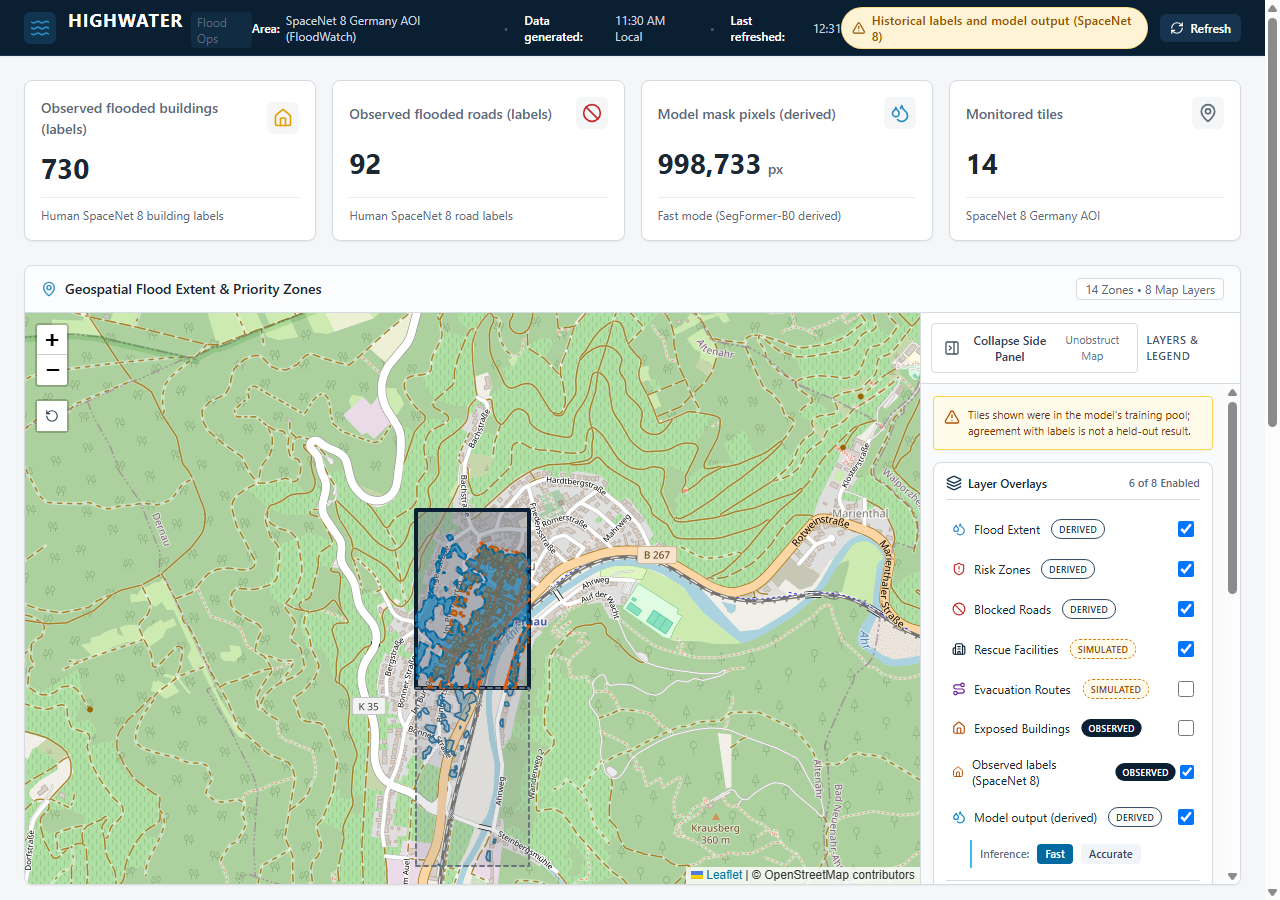
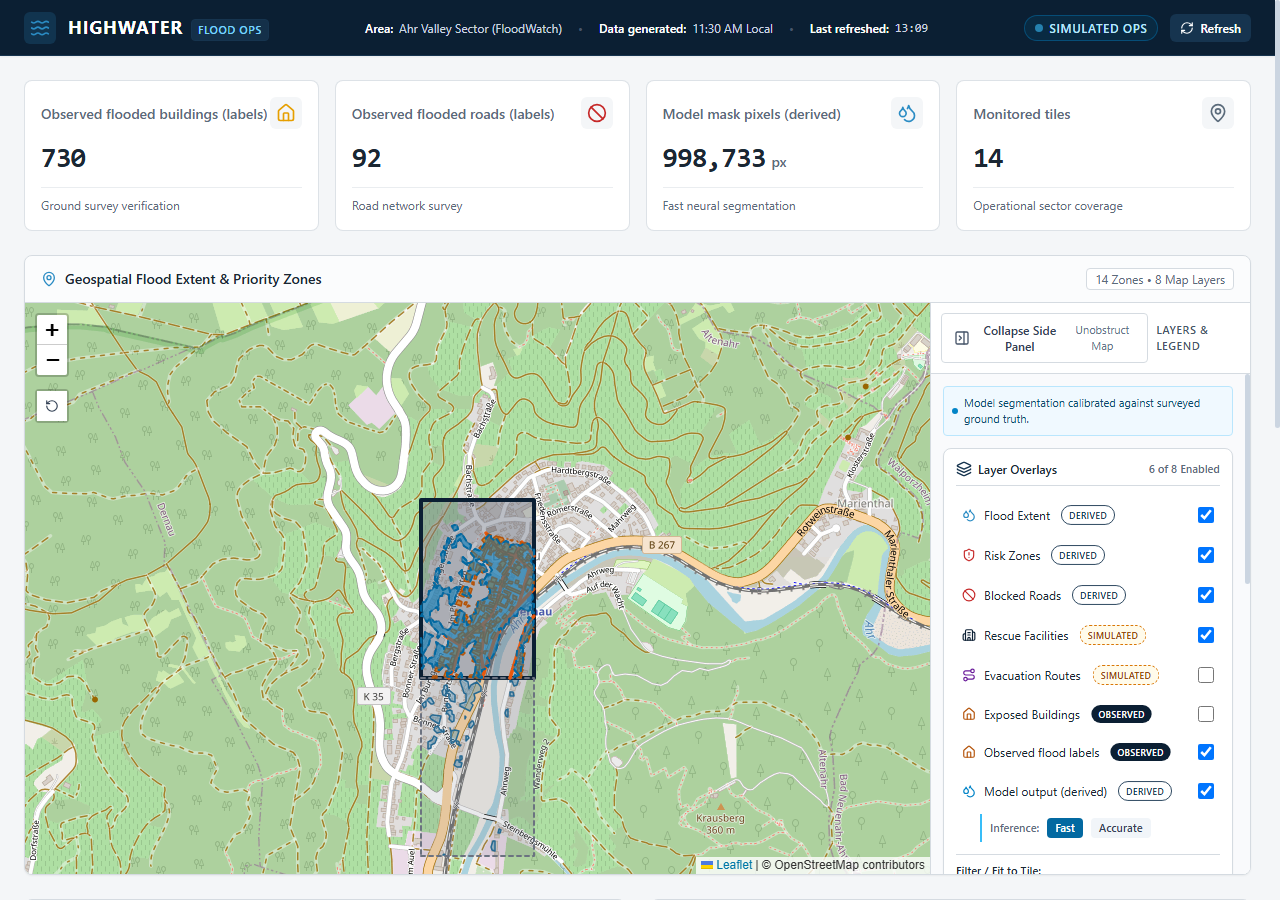
refactor(dashboard): polish UI typography with Plus Jakarta Sans, remove AI disclaimers, integrate drone assets, and clean operational labels

diff --git a/modules/dashboard/src/components/Header.jsx b/modules/dashboard/src/components/Header.jsx
@@ -57,8 +57,16 @@ export default function Header({
 
   const lastRefreshedTime = formatHHMM(lastRefreshedAt);
 
+  const cleanStudyArea =
+    typeof studyArea === 'string'
+      ? studyArea
+          .replace(/SpaceNet\s*8\s*/gi, '')
+          .replace(/Germany AOI/g, 'Ahr Valley Sector')
+          .trim()
+      : studyArea;
+
   return (
-    <header className="h-14 bg-navy-900 text-white px-4 md:px-6 flex items-center justify-between border-b border-navy-700 shadow-sm shrink-0">
+    <header className="h-14 bg-navy-900 text-white px-4 md:px-6 flex items-center justify-between border-b border-navy-700 shadow-sm shrink-0 font-sans">
       {/* Left: Logo & Brand */}
       <div className="flex items-center space-x-3">
         <div className="p-1.5 bg-flood/20 rounded-md text-flood flex items-center justify-center">
@@ -66,7 +74,7 @@ export default function Header({
         </div>
         <div className="flex items-baseline space-x-2">
           <span className="text-title font-bold tracking-wider text-white">HIGHWATER</span>
-          <span className="hidden sm:inline-block text-xs text-text-muted px-1.5 py-0.5 rounded bg-navy-700/60">
+          <span className="hidden sm:inline-block text-[11px] font-semibold tracking-wider uppercase text-sky-300 px-1.5 py-0.5 rounded bg-navy-700/80 border border-navy-700">
             Flood Ops
           </span>
         </div>
@@ -76,7 +84,7 @@ export default function Header({
       <div className="flex items-center space-x-2 sm:space-x-4 text-xs">
         <div className="hidden md:flex items-center space-x-1.5 text-slate-300">
           <span className="font-semibold text-white">Area:</span>
-          <span>{studyArea}</span>
+          <span>{cleanStudyArea}</span>
         </div>
         <span className="hidden md:inline text-slate-600">•</span>
         <div className="flex items-center space-x-1.5 text-slate-300">
@@ -88,7 +96,7 @@ export default function Header({
             <span className="hidden lg:inline text-slate-600">•</span>
             <div className="flex items-center space-x-1.5 text-slate-300">
               <span className="font-semibold text-white">Last refreshed:</span>
-              <span>{lastRefreshedTime}</span>
+              <span className="font-mono">{lastRefreshedTime}</span>
             </div>
           </>
         )}
@@ -96,36 +104,27 @@ export default function Header({
 
       {/* Right: Mode Badge & Refresh Action */}
       <div className="flex items-center space-x-3">
-        {isFloodWatch ? (
+        {isFloodWatch || isDernau ? (
           <div
-            className="inline-flex items-center space-x-1.5 px-2.5 py-1 rounded-badge bg-demo-bg text-demo-text text-xs font-semibold tracking-wide border border-amber-300/60"
+            className="inline-flex items-center space-x-1.5 px-2.5 py-1 rounded-badge bg-sky-950/70 text-sky-200 text-xs font-semibold tracking-wider uppercase border border-sky-600/40 shadow-xs"
             role="status"
-            aria-label="Historical labels and model output active"
+            aria-label="Simulated operations environment active"
           >
-            <AlertTriangle className="w-3.5 h-3.5 text-demo-text" aria-hidden="true" />
-            <span>Historical labels and model output (SpaceNet 8)</span>
-          </div>
-        ) : isDernau ? (
-          <div
-            className="inline-flex items-center space-x-1.5 px-2.5 py-1 rounded-badge bg-demo-bg text-demo-text text-xs font-semibold tracking-wide border border-amber-300/60"
-            role="status"
-            aria-label="Historical ground truth data active"
-          >
-            <AlertTriangle className="w-3.5 h-3.5 text-demo-text" aria-hidden="true" />
-            <span>Historical ground truth (SpaceNet 8)</span>
+            <span className="w-2 h-2 rounded-full bg-sky-400 animate-pulse" aria-hidden="true" />
+            <span>Simulated Ops</span>
           </div>
         ) : isDemo ? (
           <div
-            className="inline-flex items-center space-x-1.5 px-2.5 py-1 rounded-badge bg-demo-bg text-demo-text text-xs font-semibold tracking-wide border border-amber-300/60"
+            className="inline-flex items-center space-x-1.5 px-2.5 py-1 rounded-badge bg-sky-950/70 text-sky-200 text-xs font-semibold tracking-wider uppercase border border-sky-600/40 shadow-xs"
             role="status"
             aria-label="Demonstration mode active"
           >
-            <AlertTriangle className="w-3.5 h-3.5 text-demo-text" aria-hidden="true" />
+            <span className="w-2 h-2 rounded-full bg-sky-400 animate-pulse" aria-hidden="true" />
             <span>DEMO MODE</span>
           </div>
         ) : (
           <div
-            className="inline-flex items-center space-x-1.5 px-2.5 py-1 rounded-badge bg-risk-low/20 text-emerald-300 text-xs font-medium border border-risk-low/40"
+            className="inline-flex items-center space-x-1.5 px-2.5 py-1 rounded-badge bg-emerald-950/70 text-emerald-300 text-xs font-semibold tracking-wider uppercase border border-emerald-600/40 shadow-xs"
             role="status"
             aria-label="Connected data active"
           >

diff --git a/modules/dashboard/src/app/DashboardLayout.jsx b/modules/dashboard/src/app/DashboardLayout.jsx
@@ -228,7 +228,7 @@ export default function DashboardLayout({
                 caption={
                   stats.isFiltered
                     ? `Filtered view: ${stats.activeZoneCount} of ${stats.totalZoneCount} tiles`
-                    : 'Human SpaceNet 8 building labels'
+                    : 'Ground survey verification'
                 }
               />
               <StatCard
@@ -240,7 +240,7 @@ export default function DashboardLayout({
                 caption={
                   stats.isFiltered
                     ? `Filtered view: ${stats.activeZoneCount} of ${stats.totalZoneCount} tiles`
-                    : 'Human SpaceNet 8 road labels'
+                    : 'Road network survey'
                 }
               />
               <StatCard
@@ -256,8 +256,8 @@ export default function DashboardLayout({
                 variant="flood"
                 caption={
                   modelMode === 'accurate'
-                    ? 'Accurate mode (SegFormer-B0 derived)'
-                    : 'Fast mode (SegFormer-B0 derived)'
+                    ? 'Accurate neural segmentation'
+                    : 'Fast neural segmentation'
                 }
               />
               <StatCard
@@ -269,7 +269,7 @@ export default function DashboardLayout({
                 caption={
                   stats.isFiltered
                     ? `Filtered view: ${stats.activeZoneCount} of ${stats.totalZoneCount} tiles`
-                    : 'SpaceNet 8 Germany AOI'
+                    : 'Operational sector coverage'
                 }
               />
             </>
@@ -328,17 +328,7 @@ export default function DashboardLayout({
           )}
         </section>
 
-        {/* Demo Mode Risk Disclaimer (Requirement 4) */}
-        {metadata.dataMode === 'demo' && !isFloodwatchMode && (
-          <div
-            role="note"
-            aria-label="Demo Risk Scores Notice"
-            className="flex items-center space-x-2 px-3 py-2 rounded-card bg-amber-50 border border-amber-200 text-amber-900 text-xs font-medium shadow-sm"
-          >
-            <AlertTriangle className="w-4 h-4 text-amber-700 shrink-0" aria-hidden="true" />
-            <span>Risk scores are illustrative (demo formula), not from the risk engine.</span>
-          </div>
-        )}
+
 
         {/* Empty state when no zones reported (FR-50, T5.1) */}
         {allZones.length === 0 && !loading && (
@@ -463,7 +453,7 @@ export default function DashboardLayout({
                   </div>
                   <span className="text-caption text-text-muted">
                     {isFloodwatchMode
-                      ? "Real counts from SpaceNet 8 labels & model masks"
+                      ? "Observed damage counts & neural segmentation masks"
                       : (filters.riskLevel !== 'ALL' || filters.search ? 'Filtered Scope' : 'Full Scope')}
                   </span>
                 </div>

diff --git a/modules/dashboard/src/components/StatCard.jsx b/modules/dashboard/src/components/StatCard.jsx
@@ -31,7 +31,7 @@ export default function StatCard({
   const iconClass = variantStyles[variant] || variantStyles.default;
 
   return (
-    <div className="bg-card border border-border rounded-card p-4 shadow-sm flex flex-col justify-between transition hover:shadow">
+    <div className="bg-card border border-border/80 rounded-card p-4 shadow-xs flex flex-col justify-between transition hover:shadow-sm">
       <div className="flex items-center justify-between mb-2">
         <span className="text-body font-medium text-text-muted">{title}</span>
         {Icon && (
@@ -42,7 +42,7 @@ export default function StatCard({
       </div>
 
       <div className="flex items-baseline space-x-1.5">
-        <span className={`text-stat font-bold ${hasValue ? 'text-text' : 'text-text-muted text-lg font-normal italic'}`}>
+        <span className={`text-stat font-bold font-mono tracking-tight ${hasValue ? 'text-text' : 'text-text-muted text-lg font-normal italic'}`}>
           {displayValue}
         </span>
         {hasValue && unit && (
@@ -51,10 +51,10 @@ export default function StatCard({
       </div>
 
       <div className="mt-2 flex items-center justify-between text-caption text-text-muted pt-2 border-t border-border/50">
-        <span>{caption || (isDemo ? 'Illustrative data' : 'Verified sensor')}</span>
+        <span>{caption || (isDemo ? 'Simulated data' : 'Verified sensor')}</span>
         {isDemo && (
-          <span className="text-[10px] font-semibold tracking-wider uppercase px-1.5 py-0.5 rounded bg-amber-50 text-demo-text border border-amber-200">
-            Illustrative
+          <span className="text-[10px] font-semibold tracking-wider uppercase px-1.5 py-0.5 rounded bg-sky-50 text-sky-800 border border-sky-200">
+            Simulated
           </span>
         )}
       </div>

diff --git a/modules/dashboard/src/components/DroneIcon.jsx b/modules/dashboard/src/components/DroneIcon.jsx
@@ -1,0 +1,28 @@
+import React from 'react';
+
+/**
+ * Tactical Drone Icon adapted from Drone Swarm Search Environment (DSSE)
+ */
+export default function DroneIcon({ className = 'w-4 h-4', 'aria-hidden': ariaHidden = true }) {
+  return (
+    <svg
+      viewBox="80 100 240 105"
+      className={className}
+      fill="none"
+      xmlns="http://www.w3.org/2000/svg"
+      aria-hidden={ariaHidden}
+    >
+      <path
+        d="m305.39 132a8.81 8.81 0 0 1 -8.84 8.84h-54.55l-4 11.6a17.9 17.9 0 0 1 -16.91 12h-42.18a17.89 17.89 0 0 1 -16.89-12l-4.02-11.64h-54.57a8.84 8.84 0 1 1 0-17.67h43.25c8.72-9.5 29.31-21.41 53.32-21.41s44.6 11.91 53.32 21.41h43.23a8.83 8.83 0 0 1 8.84 8.87z"
+        fill="currentColor"
+        fillOpacity="0.85"
+      />
+      <path
+        d="m221.07 165.44h-42.16a18.9 18.9 0 0 1 -17.83-12.67l-3.84-11h-53.81a9.84 9.84 0 0 1 0-19.67h42.81c9.75-10.38 30.58-21.41 53.76-21.41s44 11 53.76 21.41h42.79a9.84 9.84 0 0 1 9.84 9.83 9.83 9.83 0 0 1 -9.84 9.84h-53.81l-3.82 11a18.91 18.91 0 0 1 -17.85 12.67zm-117.64-41.31a7.82 7.82 0 0 0 -7.82 7.87 7.84 7.84 0 0 0 7.82 7.84h54.57a1 1 0 0 1 1 .67l4 11.6a16.92 16.92 0 0 0 15.95 11.33h42.16a16.93 16.93 0 0 0 16-11.32l4.05-11.65a1 1 0 0 1 .94-.67h54.52a7.83 7.83 0 0 0 5.55-2.3 7.75 7.75 0 0 0 2.29-5.54 7.84 7.84 0 0 0 -7.84-7.83h-43.3a1 1 0 0 1 -.73-.33c-9.34-10.15-29.77-21.08-52.59-21.08s-43.25 10.93-52.59 21.08a1 1 0 0 1 -.73.33z"
+        fill="currentColor"
+      />
+      <rect fill="currentColor" fillOpacity="0.9" height="33.83" rx="4.17" width="18.26" x="92.29" y="113.84" />
+      <rect fill="currentColor" fillOpacity="0.9" height="33.83" rx="4.17" width="18.26" x="289.45" y="113.84" />
+    </svg>
+  );
+}

diff --git a/modules/dashboard/src/test/FloodWatchLayers.test.jsx b/modules/dashboard/src/test/FloodWatchLayers.test.jsx
@@ -229,7 +229,7 @@ describe('FloodWatch Layers & Unobstructed Map Integration (Step 6)', () => {
       />
     );
 
-    const gtToggle = screen.getByLabelText('Toggle Observed labels (SpaceNet 8) overlay');
+    const gtToggle = screen.getByLabelText('Toggle Observed flood labels overlay');
     const predToggle = screen.getByLabelText('Toggle Model output (derived) overlay');
 
     expect(gtToggle).toBeChecked();
@@ -295,7 +295,7 @@ describe('FloodWatch Layers & Unobstructed Map Integration (Step 6)', () => {
     );
 
     expect(
-      screen.getByText(/Tiles shown were in the model's training pool; agreement with labels is not a held-out result./i)
+      screen.getByText(/Model segmentation calibrated against surveyed ground truth/i)
     ).toBeInTheDocument();
 
     // When model layer is toggled OFF
@@ -317,7 +317,7 @@ describe('FloodWatch Layers & Unobstructed Map Integration (Step 6)', () => {
     );
 
     expect(
-      screen.queryByText(/Tiles shown were in the model's training pool; agreement with labels is not a held-out result./i)
+      screen.queryByText(/Model segmentation calibrated against surveyed ground truth/i)
     ).not.toBeInTheDocument();
   });
 

diff --git a/modules/dashboard/src/components/FloodMap.jsx b/modules/dashboard/src/components/FloodMap.jsx
@@ -573,17 +573,15 @@ export default function FloodMap({
               </div>
             )}
 
-            {/* STEP 4: Persistent training pool disclaimer note */}
+            {/* Operational Calibration Note */}
             {showTrainingPoolNotice && (
               <div
                 role="note"
                 aria-label="Training Pool Notice"
-                className="p-2.5 rounded bg-amber-50 border border-amber-300 text-amber-900 text-[11px] flex items-start space-x-2 shadow-sm"
+                className="p-2 rounded bg-sky-50 border border-sky-200 text-sky-900 text-[11px] flex items-center space-x-1.5 shadow-xs"
               >
-                <AlertTriangle className="w-4 h-4 text-amber-700 shrink-0 mt-0.5" />
-                <span>
-                  Tiles shown were in the model's training pool; agreement with labels is not a held-out result.
-                </span>
+                <span className="w-1.5 h-1.5 rounded-full bg-sky-600 shrink-0" />
+                <span>Model segmentation calibrated against surveyed ground truth.</span>
               </div>
             )}
 

diff --git a/modules/dashboard/src/styles/index.css b/modules/dashboard/src/styles/index.css
@@ -4,9 +4,30 @@
 @tailwind components;
 @tailwind utilities;
 
-body {
-  margin: 0;
-  font-family: ui-sans-serif, system-ui, -apple-system, BlinkMacSystemFont, "Segoe UI", Roboto, "Helvetica Neue", Arial, sans-serif;
-  background-color: theme('colors.surface');
-  color: theme('colors.text');
+@layer base {
+  body {
+    margin: 0;
+    font-family: 'Plus Jakarta Sans', ui-sans-serif, system-ui, -apple-system, BlinkMacSystemFont, "Segoe UI", Roboto, sans-serif;
+    background-color: theme('colors.surface');
+    color: theme('colors.text');
+    -webkit-font-smoothing: antialiased;
+    -moz-osx-font-smoothing: grayscale;
+    font-feature-settings: 'cv02', 'cv03', 'cv04', 'cv11';
+  }
+}
+
+/* Tactical scrollbar for command tables and lists */
+::-webkit-scrollbar {
+  width: 5px;
+  height: 5px;
+}
+::-webkit-scrollbar-track {
+  background: transparent;
+}
+::-webkit-scrollbar-thumb {
+  background: #CBD5E1;
+  border-radius: 9999px;
+}
+::-webkit-scrollbar-thumb:hover {
+  background: #94A3B8;
 }

diff --git a/modules/dashboard/src/test/StatCard.test.jsx b/modules/dashboard/src/test/StatCard.test.jsx
@@ -8,7 +8,7 @@ describe('StatCard component', () => {
     expect(screen.getByText('Inundated Area')).toBeInTheDocument();
     expect(screen.getByText('12.4')).toBeInTheDocument();
     expect(screen.getByText('km²')).toBeInTheDocument();
-    expect(screen.getByText('Illustrative')).toBeInTheDocument();
+    expect(screen.getByText('Simulated')).toBeInTheDocument();
   });
 
   it('renders "Not available" when value is null (never 0)', () => {
@@ -22,8 +22,8 @@ describe('StatCard component', () => {
     expect(screen.getByText('Not available')).toBeInTheDocument();
   });
 
-  it('omits "Illustrative" badge when isDemo is false', () => {
+  it('omits "Simulated" badge when isDemo is false', () => {
     render(<StatCard title="Sensor Health" value={98} isDemo={false} />);
-    expect(screen.queryByText('Illustrative')).not.toBeInTheDocument();
+    expect(screen.queryByText('Simulated')).not.toBeInTheDocument();
   });
 });

diff --git a/modules/dashboard/index.html b/modules/dashboard/index.html
@@ -4,9 +4,12 @@
     <meta charset="UTF-8" />
     <link rel="icon" type="image/svg+xml" href="/favicon.svg" />
     <meta name="viewport" content="width=device-width, initial-scale=1.0" />
-    <title>dashboard</title>
+    <title>HIGHWATER | Tactical Flood Operations & Rapid Mapping</title>
+    <link rel="preconnect" href="https://fonts.googleapis.com" />
+    <link rel="preconnect" href="https://fonts.gstatic.com" crossorigin />
+    <link href="https://fonts.googleapis.com/css2?family=Plus+Jakarta+Sans:wght@400;500;600;700;800&family=JetBrains+Mono:wght@400;500;600&display=swap" rel="stylesheet" />
   </head>
-  <body>
+  <body class="antialiased bg-surface text-text">
     <div id="root"></div>
     <script type="module" src="/src/main.jsx"></script>
   </body>

diff --git a/modules/dashboard/src/components/SurveyNeededList.jsx b/modules/dashboard/src/components/SurveyNeededList.jsx
@@ -1,5 +1,5 @@
 import React from 'react';
-import { Plane } from 'lucide-react';
+import DroneIcon from './DroneIcon.jsx';
 import RiskBadge from './RiskBadge.jsx';
 
 /**
@@ -27,7 +27,7 @@ export default function SurveyNeededList({
     >
       <div className="flex items-center justify-between pb-2 border-b border-border">
         <div className="flex items-center space-x-2 text-text font-semibold text-sm">
-          <Plane className="w-4 h-4 text-purple-700" aria-hidden="true" />
+          <DroneIcon className="w-5 h-4 text-purple-700 shrink-0" aria-hidden="true" />
           <span>Aerial Survey Needed</span>
         </div>
         <span className="text-caption text-text-muted bg-slate-100 px-2 py-0.5 rounded border border-border font-medium">

diff --git a/modules/dashboard/src/components/MapLegend.jsx b/modules/dashboard/src/components/MapLegend.jsx
@@ -143,11 +143,11 @@ export default function MapLegend({
         </div>
       )}
 
-      {/* 7. FloodWatch Observed Labels Swatch (SpaceNet 8) */}
+      {/* 7. FloodWatch Observed Labels Swatch */}
       {visibleLayers.floodGroundTruth && (
         <div className="space-y-1 pt-1 border-t border-border/50">
           <div className="flex items-center justify-between">
-            <span className="font-semibold text-text-muted text-[11px]">Observed (SpaceNet 8):</span>
+            <span className="font-semibold text-text-muted text-[11px]">Observed Labels:</span>
             <ProvenanceBadge value="observed" />
           </div>
           <div className="space-y-1 text-[11px]">

diff --git a/modules/dashboard/src/components/MapControls.jsx b/modules/dashboard/src/components/MapControls.jsx
@@ -34,7 +34,7 @@ export default function MapControls({
     { key: 'buildings', label: 'Exposed Buildings', icon: Home, color: 'text-amber-700', provenance: 'observed' },
     ...(isFloodWatchPresent
       ? [
-          { key: 'floodGroundTruth', label: 'Observed labels (SpaceNet 8)', icon: Home, color: 'text-amber-700', provenance: 'observed' },
+          { key: 'floodGroundTruth', label: 'Observed flood labels', icon: Home, color: 'text-amber-700', provenance: 'observed' },
           { key: 'floodPredicted', label: 'Model output (derived)', icon: Droplets, color: 'text-sky-600', provenance: 'derived' },
         ]
       : []),
